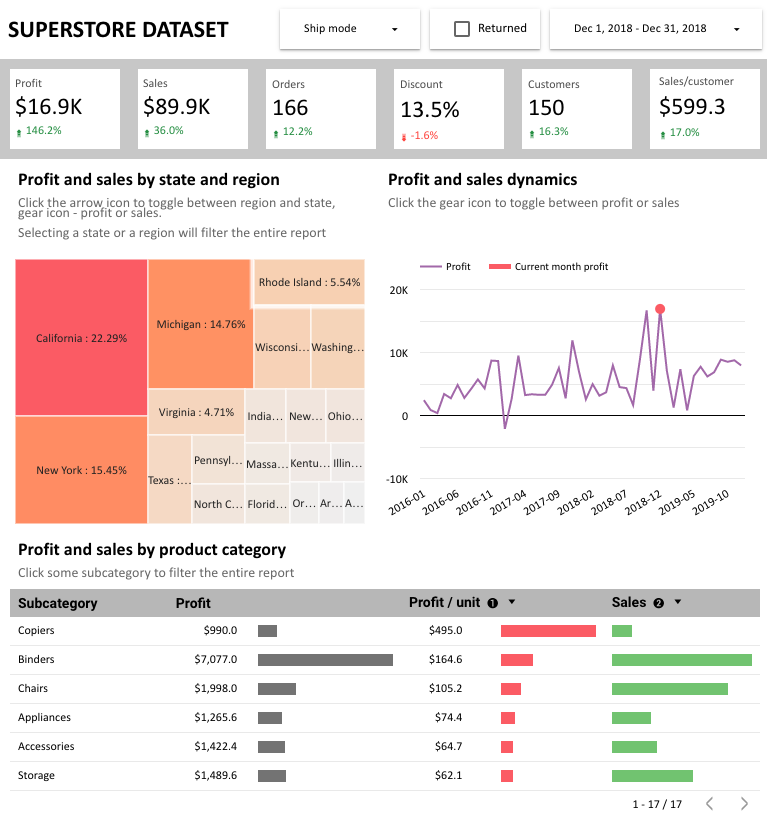
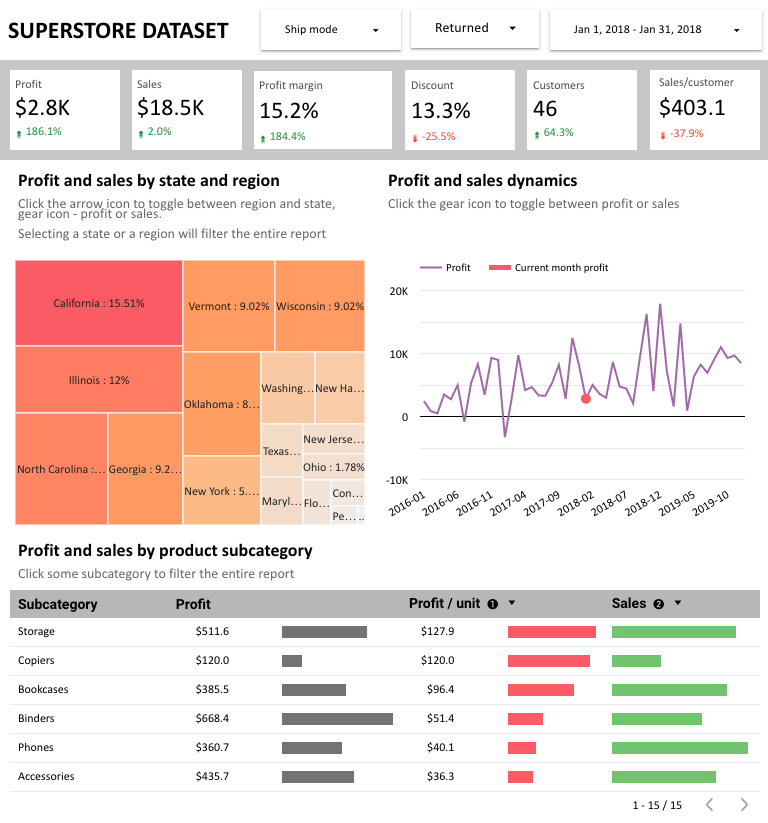
quicksight added

diff --git a/DE-101/Module2/readme.md b/DE-101/Module2/readme.md
@@ -1,12 +1,12 @@
 # Модуль 2
 
-Изначально хотела пройти этот модуль с минимальными знаниями SQL, которые успела нахватать не вполне последовательно, решая упражнения на https://sql-ex.ru/ (на момент ноября 2022 года знаний по SQL был ноль). Но, как ни странно, уткнувшись во что-то в установке DBeaver (причём, уже не знаю, что не взлетело, так как потом без проблем всё подключила), решила, что нужна хотя бы чуть более основательная база. 
+Изначально хотела пройти этот модуль с минимальными знаниями SQL, которые успела нахватать не вполне последовательно, решая упражнения на https://sql-ex.ru/ (на момент ноября 2022 года знаний по SQL был ноль). Но, уткнувшись во что-то в установке DBeaver (причём, уже не знаю, что не взлетело, так как потом без проблем всё подключила), решила, что нужна хотя бы чуть более основательная база (странная логика, я знаю)). 
 
 Прошла 2 c небольшим модуля [курса по SQL](https://datalearn.ru/kurs-po-sql) тут же на Datalearn. Очень крутой курс, спасибо большое ребятам! Дополировала [интерактивным тренажёром на Stepik](https://stepik.org/course/63054/), чуть лучше некоторые вещи уложились в голове. Планирую добить до конца оба курса, но пока решила разнообразить другими задачами. И ещё поняла, что надо почитать или пройти курс на английском, чтобы не плавать в терминологии на английском.
 
 В процессе курса Анатолия немного потрогала pgAdmin, сейчас погоняла DBeaver. 
 
-Для загрузки данных из БД Superstore использовала готовые sql файлы, хотя надо бы потом будет попробовать импорт средствами бобра например. Сразу же изменила тип данных в postal_code на varchar, иначе потом криво добавляется недостающий индекс (исчезает первый ноль). Скрипт Returns аналогично тому, что Дима показывал в видео, редактировала на ходу, причём два раза, оба забыла сохранить, чтобы предложить правки в курс. Но вообще, если честно, так даже по-моему эффективнее тренировать.
+Для загрузки данных из БД Superstore использовала готовые sql файлы из [datalearn репозитория](https://github.com/Data-Learn/data-engineering/tree/master/DE-101%20Modules/Module02/DE%20-%20101%20Lab%202.1). Сразу же изменила тип данных в postal_code на varchar, иначе потом криво добавляется недостающий индекс (исчезает первый ноль). Скрипт Returns аналогично тому, что Дима показывал в видео, редактировала на ходу, причём два раза, оба забыла сохранить, чтобы предложить правки в курс. Но вообще, если честно, так даже по-моему эффективнее тренировать.
 
 ## 1. SQL ЗАПРОСЫ НА ОСНОВЕ ЭКСЕЛЕВСКОГО ДАШБОРДА
 
@@ -15,7 +15,7 @@
 
 C SQL получилось решить то, что не получалось красиво сделать в экселе (до некрасивого решения я так и не добралась)). В экселе я для подсчёта процента роста/уменьшения прибыли и других показателей использовала вычисляемое поле сводной таблицы, которое по неизвестным мне причинам знаменатель берёт не по модулю, таким образом расчёт получается в корне неправильным в том случае, если к примеру была отрицательная прибыль. В общем, с SQL это всё решается просто.
 
-Решила использовать оконные функции и CTE, пока до конца не разобралась, что лучше: две CTE или CTE и подзапрос, как у меня получилось (случайно, но потом уже не стала переделывать, хотя с двумя CTE по-моему как минимум читается проще).
+Решила использовать оконные функции и CTE, пока до конца не разобралась, что лучше: две CTE или CTE и подзапрос, как у меня получилось случайно (но потом уже не стала переделывать), хотя с двумя CTE по-моему как минимум читается проще.
 
 #### 1.1.1. Прибыль по месяцам в сравнении с аналогичным месяцем предыдущего года (Year-over-year) 
 
@@ -61,7 +61,6 @@ group by
 order by
 	1,2;
 ```
-Результат 
 ![profit monthly yoy](profit_montly_yoy.png)
 
 Другие KPI считаются аналогично, просто заменяем названия столбцов и функцию агрегирования в основном селекте. Я для разнообразия немного разными способами написала запросы.
@@ -81,11 +80,14 @@ SELECT
 	ROUND((count(distinct order_id)::numeric / LAG(count(distinct order_id)::numeric) OVER (ORDER BY EXTRACT(year FROM order_date)) - 1) * 100, 1) AS orders_change,
 	ROUND(SUM(profit)/SUM(sales) *100, 1) AS profit_margin,
 	ROUND(((SUM(profit)/SUM(sales)) / LAG(SUM(profit)/SUM(sales)) OVER (ORDER BY EXTRACT(year FROM order_date)) - 1) * 100, 1) AS profit_margin_change
-FROM orders
-GROUP BY EXTRACT(year FROM order_date)
-ORDER BY EXTRACT(year FROM order_date);
+FROM 
+	orders
+GROUP BY 
+	EXTRACT(year FROM order_date)
+ORDER BY 
+	EXTRACT(year FROM order_date);
 ```
-Результат 
+
 ![kpi yearly](kpi-yearly.png)
 ### 1.2 Смотрим остальные показатели 
 В разных запросах потренировала разные фильтры/группировки, так надо от конкретной задачи отталкиваться, конечно.
@@ -113,7 +115,7 @@ group by
 order by
 	returned_sales_sum desc;
 ```
-Результат
+
 ![lost profit by state](lost_profit_by_state.png)
 
 #### 1.2.2 Динамика прибыли
@@ -131,7 +133,6 @@ group by
 order by
 	order_year;		
 ```
-Результат
 ![profit dynamics](profit_dynamics.png)
 
 ####  1.2.3 Топ-10 продуктов по прибыли
@@ -153,13 +154,13 @@ order by
 limit 
 	10;		
 ```
-Результат
+
 ![top 10 products by profit](top_10_products_profit.png)
 
 Ну и так далее. Скрипт с несколькими оставшимися показателями можно посмотреть [тут](DE-101/Module2/from_stg_to_dw_superstore.sql)
 
 ## 2. МОДЕЛЬ ДАННЫХ
-Для построения модели данных использовала [SqlDBM](https://sqldbm.com) и функцию forward engineering для скрипта создания таблиц. Это физическая модель, для остальных нужен платный аккаунт или ручками (а мне лень :smirk:).
+Для построения модели данных использовала [SqlDBM](https://sqldbm.com) и функцию forward engineering для скрипта создания таблиц. Это физическая модель, для остальных нужен платный аккаунт или ручками (а мне лень :smirk:). Но суть я вроде бы понимаю.
 
 ![Физическая модель данных](data_model_superstoredb.png)
 
@@ -169,7 +170,7 @@ limit
 - возвраты тоже вынесены отдельно в `order_status`, теоретически могут добавляться другие характеристики заказа. 
 
 
-Скрипт создания таблиц и загрузки данных можно посмотреть [тут](from_stg_to_dw_superstore.sql). Может быть незначительное расхождение со схемой, я редактировала скрипт уже по ходу, могла забыть что-то обновить в модели. Ещё удалила всякие индексы, которые предлагал SqlDBM (с ними знакома пока только по касательной).
+Скрипт создания таблиц и загрузки данных можно посмотреть [тут](from_stg_to_dw_superstore.sql). Может быть незначительное расхождение со схемой, я редактировала скрипт уже по ходу, могла забыть что-то обновить в модели. Ещё пока что удалила всякие индексы, которые предлагал SqlDBM (с ними знакома пока только по касательной).
 
 После обсуждения [домашки Юрия](https://github.com/yuriizd/DataLearnDE/blob/main/DE-101/Module2/README.md) выяснилось, что из-за того, что я поленилась подумать и создала primary key в product_dim, а не оставила `product_id`, не увидела дубликатов `product_id`, данные, соответственно, по-хорошему надо чистить. Но мне уже хотелось двигаться дальше. Если что, у Юрия есть подробное описание со скриптами.
 
@@ -196,24 +197,43 @@ limit
 ![Superstore dashboard in Looker studio 2](Looker_superstore_dashboard_2.png)
 [Интерактивный дашборд тык](https://lookerstudio.google.com/reporting/9ec0ba74-5d20-4996-b697-36314a874d58)
 
-Оговорюсь, что внешним видом я недовольна. У меня всегда была команда дизайнеров, а самой надо всему ещё учиться, если решу в ту сторону развиваться (или аутсорсить как и раньше). Да и по содержанию дашборда есть ещё, над чем работать. У меня в голове так и не образовалось чёткой картины, для кого должен быть этот дашборд, пока он, возможно, слишком гибкий. Большинству пользователей по моему опыту не нужно столько гибкости, надо бы сильнее отфильтровать. Например, как [тут](https://public.tableau.com/app/profile/joris.van.den.berg/viz/SunCycleSalesDashboard/SunCycleSalesDashboard). (Пытаемся игнорировать бесячую подложку, по ней уже [все прошлись](https://t.me/datanature/224)) Сейчас отчёт больше под меня сделан.
+Оговорюсь, что внешним видом я недовольна. У меня всегда была команда дизайнеров, а самой надо всему ещё учиться, если решу в ту сторону развиваться (или аутсорсить как и раньше). Да и по содержанию дашборда есть ещё, над чем работать. У меня в голове так и не образовалось чёткой картины, для кого должен быть этот дашборд, пока он, возможно, слишком гибкий. Большинству пользователей по моему опыту не нужно столько гибкости, надо бы сильнее отфильтровать. Например, как [тут](https://public.tableau.com/app/profile/joris.van.den.berg/viz/SunCycleSalesDashboard/SunCycleSalesDashboard). (Пытаемся игнорировать бесячую подложку, по ней уже [все прошлись](https://t.me/datanature/224)).
 
 Пара комментариев по особенностям функционала Looker Studio:
-1. Фильтры, которые выносятся кнопками (за исключением даты), нельзя привязать к отдельным графикам (или, соответственно, отвязать от каких-то). Что касается временных диапазонов, то тут можно либо использовать data control, либо задавать любой другой интервал. Так, например, реализован график динамики прибыли и продаж с отображением текущего месяца. Есть статичная часть графика с заданным фиксированным интервалом всего датасета и динамичная, которая показывает только диапазон, выбранный в data control (реализовано соединением одинаковых таблиц - функционал blended data).
+1. Фильтры, которые выносятся кнопками - controls (за исключением даты), нельзя привязать к отдельным графикам (или, соответственно, отвязать от каких-то). Что касается временных диапазонов, то тут можно либо использовать data control, либо задавать любой другой интервал принудительно. Так, например, реализован график динамики прибыли и продаж с отображением текущего месяца. Есть статичная часть графика с заданным фиксированным интервалом всего датасета и динамичная, которая показывает только диапазон, выбранный в data control (реализовано соединением одинаковых таблиц - функционал blended data).
+
+
 2. Зато есть возможность фильтровать непосредственно из графиков. Все графики на данном дашборде, кроме графика динамики, позволяют фильтровать данные. Это на самом деле удобно, позволяет уменьшить количество "внешних" фильтров. 
+
+
 3. Плюс ещё есть возможность фильтровать данные непосредственно при создании графиков. В данном дашборде эту фичу я не использовала.
-4. Сходу не нашла, может, оно и есть где: не удалось зафиксировать диапазон дат в фильтре (кроме как при настройке расшаривания, там можно дать ссылку на конкретный вид по идее с уже выбранной датой). А так, каждый раз надо руками отматывать на 16-19 годы.
+
+
+4. Ещё достаточно удобно (но не всегда очевидно для пользователя), что на один график можно выносить несколько метрик, не перегружая визуал, с помощью optional metrics. В моём дашборде так реализованы прибыль и продажи по штатам и динамика прибыли и продаж.
+
+
+5. Сходу не нашла, может, оно и есть где: не удалось зафиксировать диапазон дат в фильтре (кроме как при настройке расшаривания, там вроде бы можно дать ссылку на конкретный вид по идее с уже выбранной датой). А так, каждый раз надо руками отматывать на 16-19 годы.
 
 
 ### 3.1 Баги Google Looker Studio на момент конца мая 2023
 #### 3.1.1 Баг в drill down дат при использовании blended data
- Судя по тому что я нашла, этот баг тянется ещё из 2021 года (при этом, судя по видео ребят Left Join, в предыдущей версии Лукера этого бага не было). При попытке изменить грануляцию данных, меняются только метки по оси Х, а данные так и остаются по дням. При этом, если использовать просто один источник данных, всё работает норм. Пришлось прибегнуть к workaround: в источнике данных преобразовала дату в year-month и текстовый формат. Вроде бы есть чуть более изящное решение, но мне стало лень проверять, насколько оно работает. Сейчас метки графика динамики не оптимальной читаемости. 
+ Судя по тому что я нашла, этот баг тянется ещё из 2021 года (при этом, на видео ребят Left Join, в предыдущей версии Лукера этого бага не видно). При попытке изменить грануляцию данных, меняются только метки по оси Х, а данные так и остаются по дням. При этом, если использовать просто один источник данных, всё работает норм. Пришлось прибегнуть к workaround: на уровне источника данных преобразовала дату в year-month и текстовый формат (изменила SQL запрос). Вроде бы есть чуть более изящное решение, но мне стало лень проверять, насколько оно работает. Сейчас метки графика динамики не оптимальной читаемости. 
 
 #### 3.1.2 Нет возможности редактировать стиль optional metric
-Точнее, это даже недоработка интерфейса: у optional metric нет возможности редактировать стиль, соответственно, второстепенная метрика выглядит сильно менее читабельной. 
+Точнее, это даже недоработка интерфейса: у optional metric нет возможности редактировать стиль, соответственно, второстепенная метрика выглядит сильно менее читабельной. Особенно в графике динамики продаж. Там еле видно точку текущего месяца (но она есть))
 
 ## 3. ВИЗУАЛИЗАЦИЯ ДАННЫХ С ПОМОЩЬЮ AMAZON QUICKSIGHT
 Тут тоже не обошлось без приключений. Quicksight отказывался подключаться к постгресу в AWS RDS. Судя по всему, проблема в изменённом начиная с 14 версии PostgreSQL password encryption, Quicksight так и не поддерживает SCRAM. Если проблема в этом, workaround описан [тут](https://community.amazonquicksight.com/t/my-quicksight-cannot-connect-to-rds-postgresql-db-via-vpc/4696/4). Я сходу не смогла разобраться, где конкретно и как надо прописывать (там, где я пыталась, AWS мне не дал). Решила разбираться с этим позже, но если кто-то сможет подсказать или где взять чуть более подробную инструкцию, буду очень признательна. Я решила проблему тем, что создала ещё одну RDS с PostgreSQL 13.11. 
 
-[Обратно в начало репозитория :leftwards_arrow_with_hook:](https://github.com/Bigdataworm/Datalearn)
+Немного поигралась с функционалом. В целом, Quicksight мне показался менее гибким с точки зрения форматирования по сравнению с Looker Studio. При этом более гибким в плане настройки метрик. Можно много всего разного добавлять, фильтры достаточно гибкие. Но несколько менее интуитивный интерфейс. 
 
+И то ли я туплю, то ли некоторые штуки работают не так, как должны (например, фильтр top/bottom), то ли я не разобралась. Но я не уверена, что мне понадобится работать с Quicksight (только если попадётся компания, плотно сидящая в Амазоновской экосистеме, но вот тогда и разберусь). Так что очень по верхам прошлась.
+![Dashboard in Quicksight](Amazon_Quicksight_dashboard.png)
+
+Я почти настроила отображение изменений метрик по сравнению с аналогичным периодом в предыдущем году. Даже conditional formating осилила. Но оно всё ломается, как только подключаешь date range control. То есть можно отфильтровать по нужным датам, потом удалить фильтр и настроить изменение процентов. Вот [статья](https://community.amazonquicksight.com/t/creating-period-comparisons-with-quicksights-periodover-and-periodto-functions/6830) тоже описывает этот нюанс. Не очень понимаю, как такое в принципе может быть. Может, я не докопала-таки. 
+
+И ещё дашбордом, насколько я поняла, наружу не поделиться. Только пользователи, имеющие доступ к аккаунту, могут смотреть. А так только выгружать в пдф или ещё во что. Не знаю, в общем, насколько это рабочий инструмент. 
+
+Уф. Надеюсь мои грабли кому-нибудь пригодятся, кроме меня ;)
+
+[Обратно в начало репозитория :leftwards_arrow_with_hook:](https://github.com/Bigdataworm/Datalearn)
